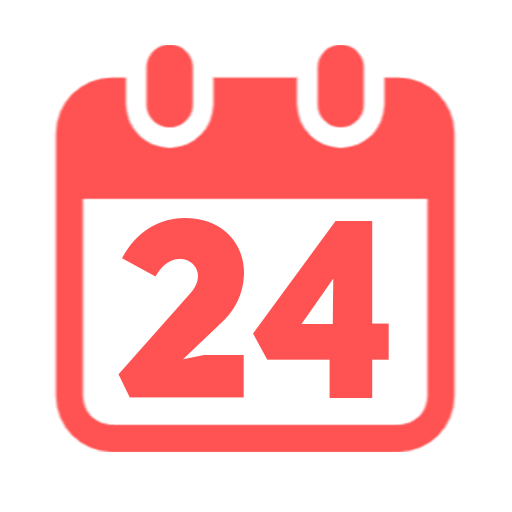
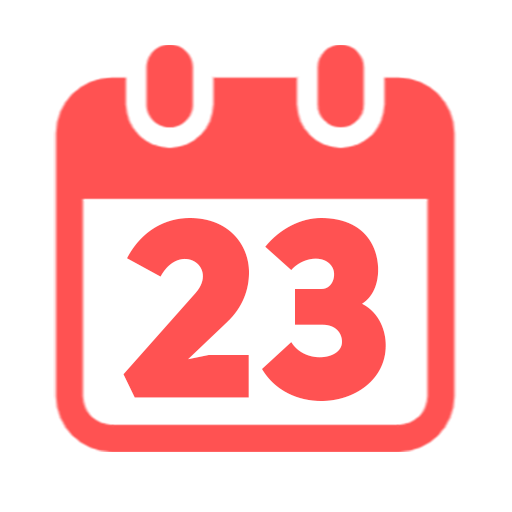
Update Images

diff --git a/app/discal/cogs/icon_updater.py b/app/discal/cogs/icon_updater.py
@@ -29,13 +29,16 @@ class Updater(commands.Cog):
     @tasks.loop(minutes=1)
     async def postloop(self):
         now = datetime.now() + timedelta(hours=9)
-        if now.hour == 0 and now.minute == 0: 
+        if now.hour == 0 and now.minute == 0:
+            guild = self.bot.get_guild(782168943967469569)
             logger.info('Change Logo')
             suffix = get_datetype(now)
             day = now.day
             fn = f"dates/{day}{suffix}.png"
             with open(fn, 'rb') as fp:
-                await self.bot.user.edit(avatar=fp.read())
+                b = fp.read()
+                await self.bot.user.edit(avatar=b)
+                await guild.edit(icon=b)
 
     @postloop.before_loop
     async def wait_ready(self):
